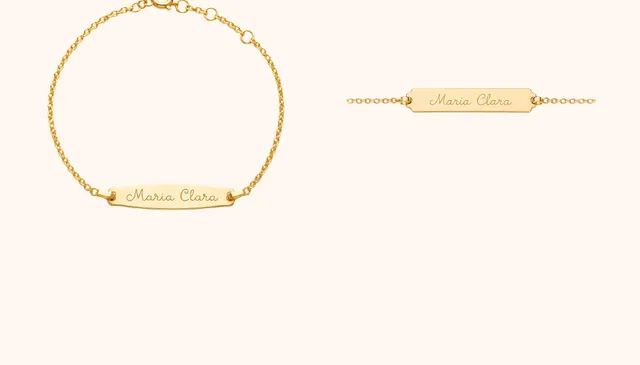
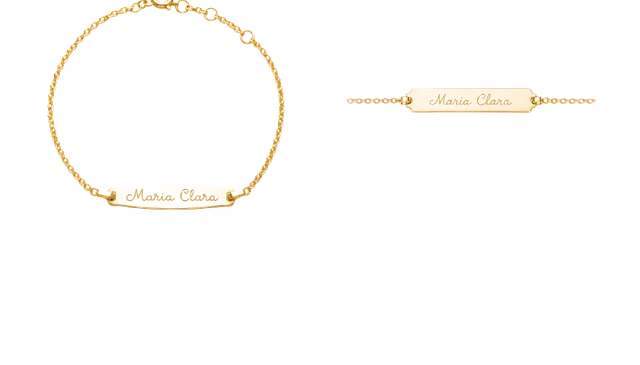
Ajustes visuais: ritmo das seções, faixa final clara e fotos uniformes
- Seções alternadas com tom mais marcado e filete dourado entre blocos de mesma cor
- Faixa de chamada final em areia, separando-a do rodapé azul
- Cabeçalho editorial (título à esquerda, link à direita) nas listas de peças
- Galeria em mosaico
- Fundo transparente nas 4 fotos de produto que tinham fundo próprio

diff --git a/styles.css b/styles.css
@@ -338,6 +338,37 @@ body.catalog-lock { overflow:hidden; }
 .buy-btn:hover, .btn-light:hover { transform:translateY(-2px); box-shadow:0 12px 24px -16px rgba(20,34,61,.6); }
 .outline-btn:hover { background:#14223d; color:#f5efe3; }
 
+/* ============ SECTION RHYTHM (visual review) ============ */
+/* Alternate sections a touch deeper so blocks read as distinct; same-colour
+   neighbours get a fine gold rule instead. */
+.page-section.alt { background:#efe7da; }
+.page-section:not(.alt) + .page-section:not(.alt) { border-top:1px solid rgba(154,123,52,.22); }
+.page-section.alt .value-card, .page-section.alt .service-card { background:#faf8f4; }
+
+/* Closing call-to-action: light sand with a gold rule, so the navy footer is the
+   only dark block at the end of each page. */
+#parallax-root .cta-band { background:#f2eee6; color:#14223d; border-top:1px solid rgba(154,123,52,.35); position:relative; }
+#parallax-root .cta-band::before { content:''; position:absolute; top:-1px; left:50%; width:72px; height:3px; margin-left:-36px; background:#9a7b34; }
+#parallax-root .cta-band .eyebrow { color:#7a5f22; }
+.cta-band .cta-band-text { color:#5a6170; }
+.cta-band .btn-light { background:#14223d; color:#f5efe3; }
+.cta-band .btn-light:hover { background:#0e1a30; }
+.cta-band .btn-ghost-light { border-color:rgba(20,34,61,.45); color:#14223d; }
+.cta-band .btn-ghost-light:hover { border-color:#14223d; background:rgba(20,34,61,.05); }
+.page-section.alt + .cta-band { background:#faf8f4; }
+
+/* Product rows get an editorial left-aligned header with the link on the right. */
+.section-head.split-head { display:flex; align-items:flex-end; justify-content:space-between; gap:24px; text-align:left; flex-wrap:wrap; }
+.section-head.split-head .editorial-text { margin-left:0; }
+.section-head.split-head .section-link { margin-bottom:6px; }
+
+/* Gallery as a mosaic: one large photo + two stacked. */
+@media (min-width: 561px) {
+  .gallery { grid-template-columns:1.35fr 1fr; grid-template-rows:1fr 1fr; }
+  .gallery figure { aspect-ratio:auto; }
+  .gallery figure:first-child { grid-row:1 / span 2; aspect-ratio:4/5; }
+}
+
 /* Off-screen sections skip layout/paint until they approach the viewport. */
 .page-section, .cta-band, .site-footer, #vitrine-section { content-visibility:auto; contain-intrinsic-size:auto 900px; }
 

diff --git a/produto/index.html b/produto/index.html
@@ -28,8 +28,9 @@
 
     <section class="pad-h page-section alt">
       <div class="container">
-        <div class="section-head">
-          <span data-reveal class="eyebrow">Do ateliê para você</span>
+        <div class="section-head split-head">
+          <div>
+            <span data-reveal class="eyebrow">Do ateliê para você</span>
           <h2 data-reveal class="section-title" style="margin:10px 0 0;font-weight:400;transition-delay:.1s">Como sua joia é feita</h2>
         </div>
         <div class="values-grid">
@@ -57,9 +58,10 @@
         <div class="section-head">
           <span data-reveal class="eyebrow">Combina com</span>
           <h2 data-reveal class="section-title" style="margin:10px 0 0;font-weight:400;transition-delay:.1s">Você também pode gostar</h2>
+          </div>
+          <a id="pp-related-link" class="section-link" href="/catalogo/">Ver mais peças →</a>
         </div>
         <div id="pp-related-grid" class="grid-vitrine" data-product-list=""></div>
-        <div class="vitrine-more" style="margin-top:44px"><a id="pp-related-link" class="section-link" href="/catalogo/">Ver mais peças →</a></div>
       </div>
     </section>
 

diff --git a/atelie/index.html b/atelie/index.html
@@ -65,13 +65,15 @@
 
     <section class="pad-h page-section alt">
       <div class="container">
-        <div class="section-head">
-          <span data-reveal class="eyebrow">Para começar</span>
+        <div class="section-head split-head">
+          <div>
+            <span data-reveal class="eyebrow">Para começar</span>
           <h2 data-reveal class="section-title" style="margin:10px 0 0;font-weight:400;transition-delay:.1s">Peças que levam o seu nome</h2>
           <div data-reveal class="editorial-text" style="transition-delay:.2s">Nomes, iniciais e datas gravados na peça — um ponto de partida para a sua história.</div>
+          </div>
+          <a class="section-link" href="/catalogo/?f=gravacao">Ver todas as peças com gravação →</a>
         </div>
         <div class="grid-vitrine" data-product-list="col4,col3,pin2,ane1"></div>
-        <div class="vitrine-more" style="margin-top:44px"><a class="section-link" href="/catalogo/?f=gravacao">Ver todas as peças com gravação →</a></div>
       </div>
     </section>
 

diff --git a/personalizacao/index.html b/personalizacao/index.html
@@ -62,13 +62,15 @@
 
     <section class="pad-h page-section alt">
       <div class="container">
-        <div class="section-head">
-          <span data-reveal class="eyebrow">Escolha a sua pedra</span>
+        <div class="section-head split-head">
+          <div>
+            <span data-reveal class="eyebrow">Escolha a sua pedra</span>
           <h2 data-reveal class="section-title" style="margin:10px 0 0;font-weight:400;transition-delay:.1s">Peças com pedras naturais</h2>
           <div data-reveal class="editorial-text" style="transition-delay:.2s">Topázio, peridoto, granada, citrino, ametista e outras pedras para compor a sua joia.</div>
+          </div>
+          <a class="section-link" href="/catalogo/?f=pedra">Ver todas as peças com pedra →</a>
         </div>
         <div class="grid-vitrine" data-product-list="col11,ane3,bri1,pin4"></div>
-        <div class="vitrine-more" style="margin-top:44px"><a class="section-link" href="/catalogo/?f=pedra">Ver todas as peças com pedra →</a></div>
       </div>
     </section>
 
